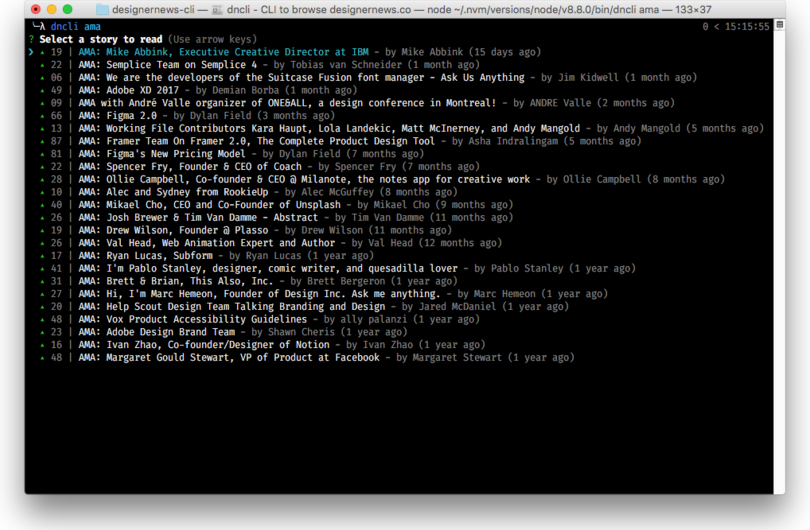
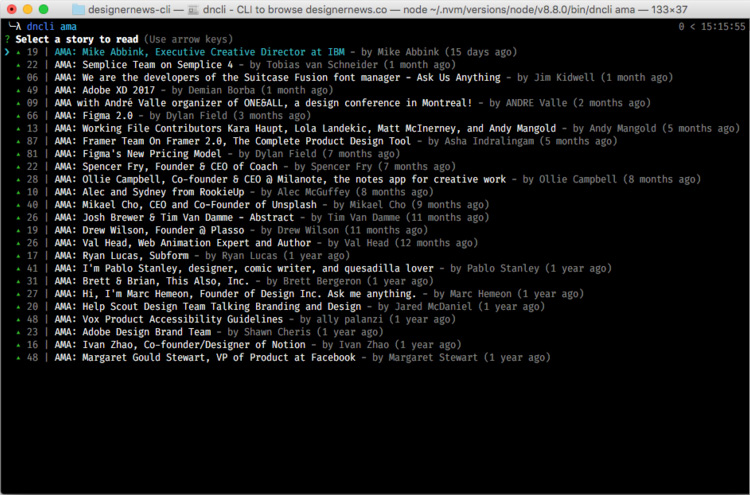
:memos:  update screenshot size

diff --git a/readme.md b/readme.md
@@ -2,7 +2,7 @@
 > 📰 CLI to browse designernews.co
 
 <br>
-<p align="center"><img src="dncli-screenshot.jpg" width="957" height="621"></p>
+<p align="center"><img src="dncli-screenshot.jpg" width="750" height="495"></p>
 <br>
 
 
